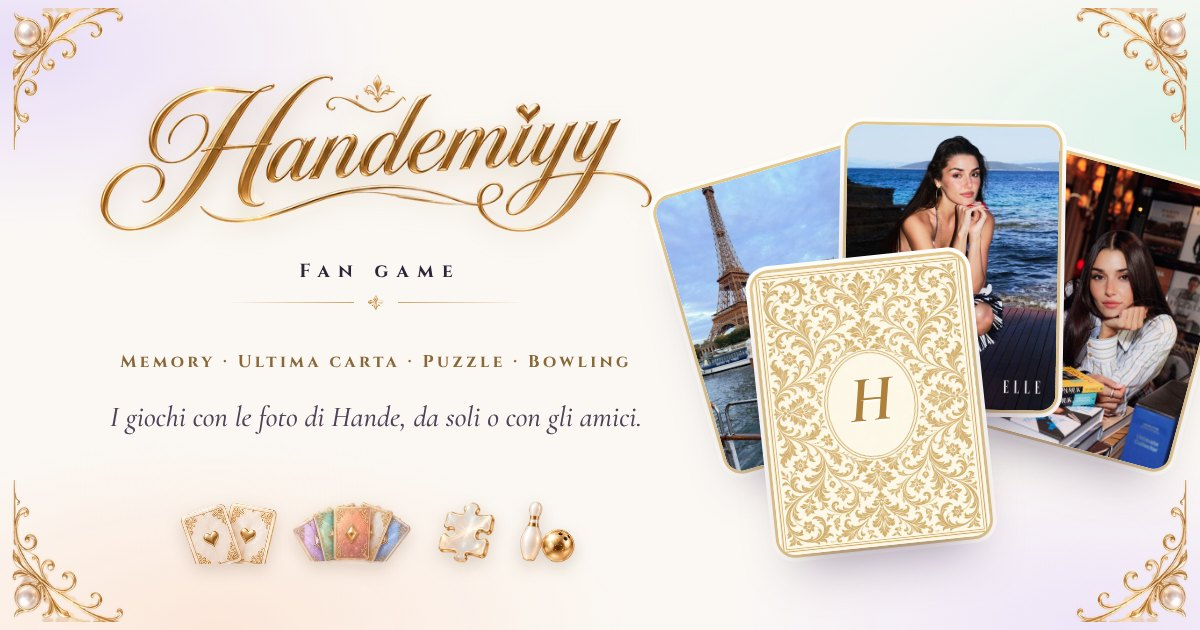
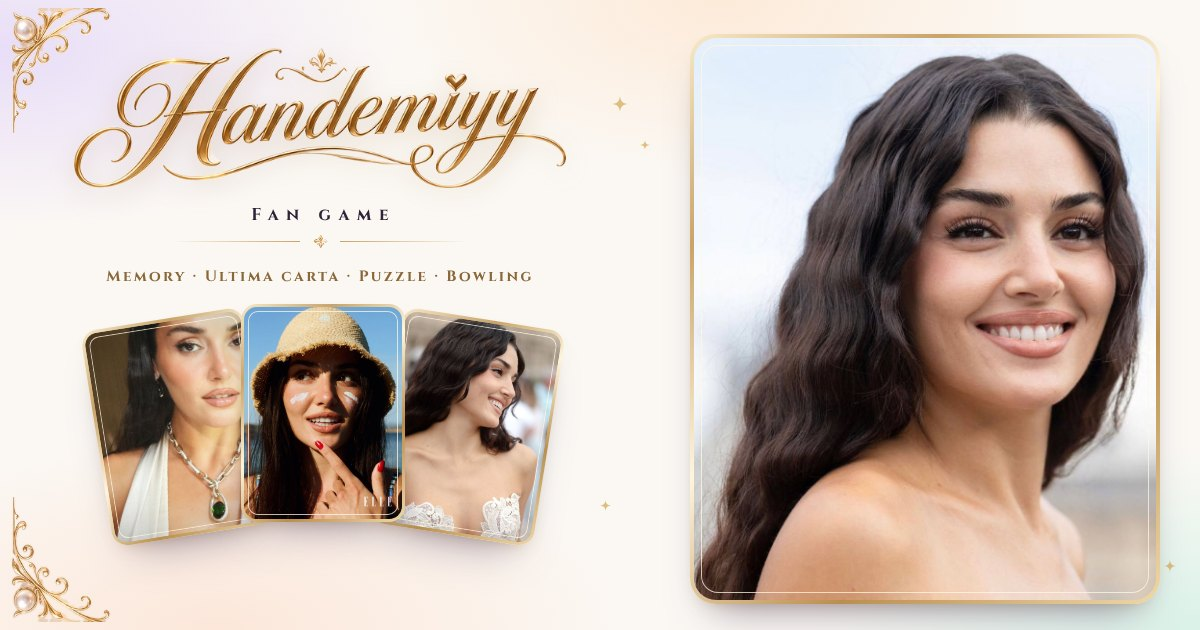
Anteprima del link con le foto di Hande
Hande sorridente in una cornice d'oro accanto alla firma, con altre tre foto sotto;
il nome del gioco e la lista dei giochi stanno lontani dall'angolo dove X scrive il sito.
L'immagine ha un nuovo indirizzo (og.jpg?v=3) così X la scarica di nuovo, e ci sono
anche i tag twitter:image e il testo alternativo.

Claude-Session: https://claude.ai/code/session_01TANC76ZpyoK8VvRoUycMug

diff --git a/index.html b/index.html
@@ -15,11 +15,16 @@
 <meta property="og:site_name" content="Handemiyy">
 <meta property="og:title" content="Handemiyy">
 <meta property="og:description" content="Memory, Ultima carta, Puzzle e Bowling con le foto di Hande. Gioca da solo o con gli amici.">
-<meta property="og:image" content="https://napoli1984.github.io/Handemiyy-/og.jpg">
+<meta property="og:image" content="https://napoli1984.github.io/Handemiyy-/og.jpg?v=3">
 <meta property="og:image:width" content="1200">
 <meta property="og:image:height" content="630">
+<meta property="og:image:alt" content="Hande sorride in una cornice d’oro accanto alla scritta Handemiyy: Memory, Ultima carta, Puzzle e Bowling">
 <meta property="og:url" content="https://napoli1984.github.io/Handemiyy-/">
 <meta name="twitter:card" content="summary_large_image">
+<meta name="twitter:title" content="Handemiyy">
+<meta name="twitter:description" content="Memory, Ultima carta, Puzzle e Bowling con le foto di Hande. Gioca da solo o con gli amici.">
+<meta name="twitter:image" content="https://napoli1984.github.io/Handemiyy-/og.jpg?v=3">
+<meta name="twitter:image:alt" content="Hande sorride in una cornice d’oro accanto alla scritta Handemiyy: Memory, Ultima carta, Puzzle e Bowling">
 <link rel="preconnect" href="https://fonts.googleapis.com">
 <link rel="preconnect" href="https://fonts.gstatic.com" crossorigin>
 <link rel="stylesheet" href="https://fonts.googleapis.com/css2?family=Bodoni+Moda:ital,opsz,wght@0,6..96,400..900;1,6..96,400..900&family=DM+Mono:wght@400;500&family=Jost:wght@400;500;600;800&family=Pinyon+Script&family=Cinzel:wght@500;600;700&family=Cormorant+Garamond:ital,wght@0,500;0,600;0,700;1,500;1,600;1,700&display=swap">
